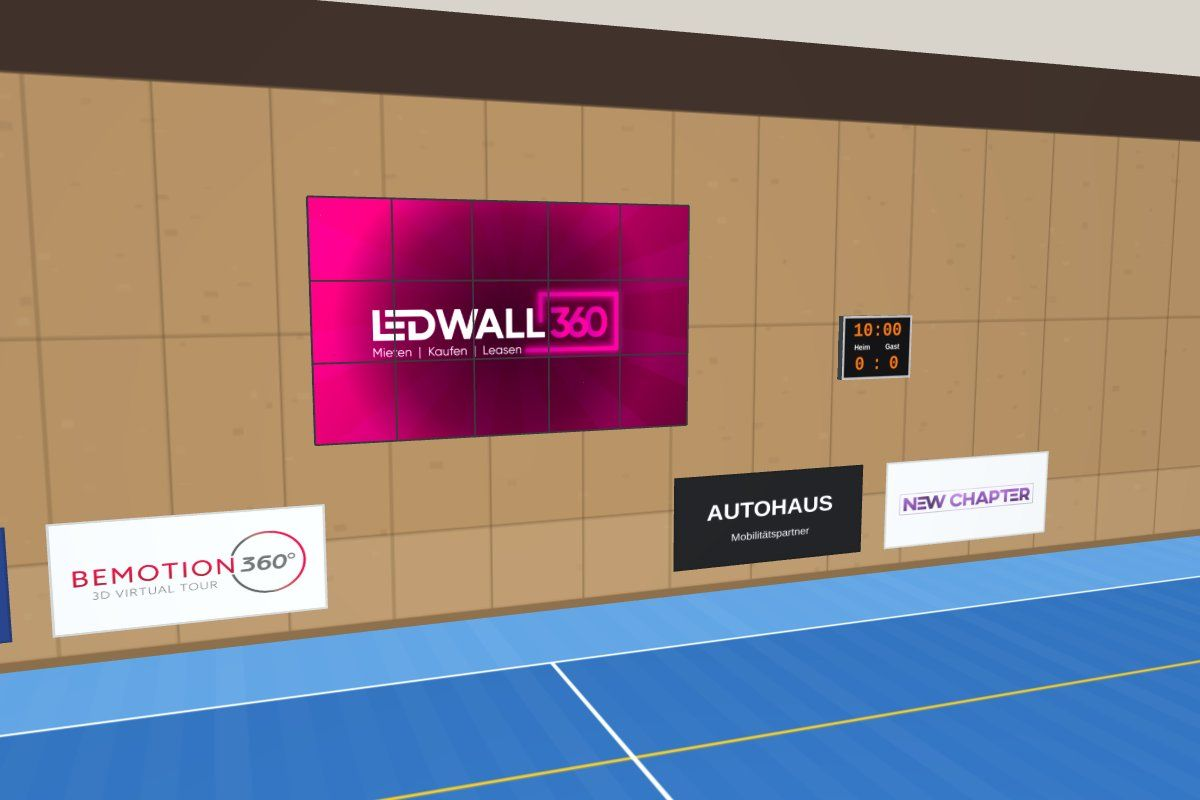
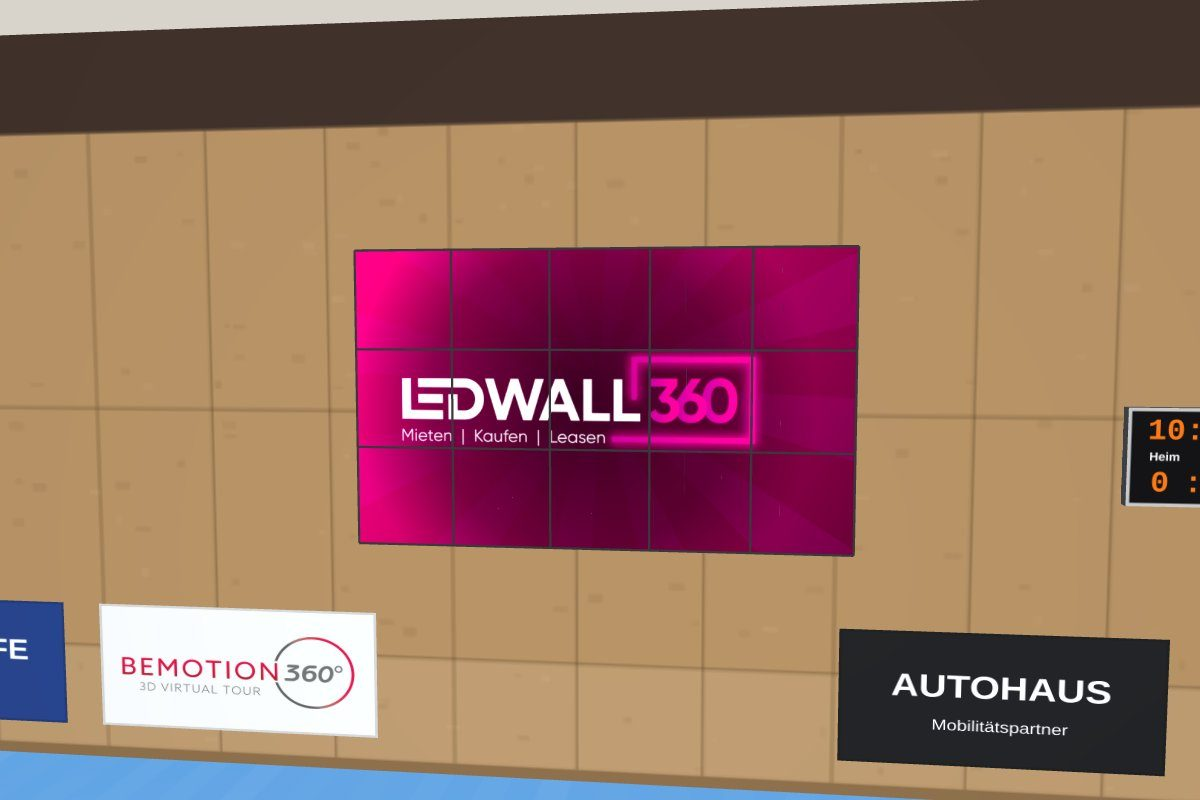
Startseite: neue Kachelbilder (Mobil mit Bodenaufbau, Fest mit LEDWALL mittig)
Claude-Session: https://claude.ai/code/session_01KYGgSmeM7V6V2tfPuBca7V

diff --git a/index.html b/index.html
@@ -61,7 +61,7 @@
   .tile:hover .cta{background:#ff1a94;}
   .tile .img{position:relative;aspect-ratio:2.3/1;background:#ece8f0;}
   .tile .img{overflow:hidden;}
-  .tile .img img{position:absolute;inset:0;display:block;width:100%;height:100%;object-fit:cover;object-position:50% 38%;}
+  .tile .img img{position:absolute;inset:0;display:block;width:100%;height:100%;object-fit:cover;object-position:50% 50%;}
   .tag{position:absolute;left:14px;top:14px;font-size:11px;font-weight:700;letter-spacing:.8px;text-transform:uppercase;color:#fff;background:rgba(18,13,24,.72);backdrop-filter:blur(6px);-webkit-backdrop-filter:blur(6px);border-radius:999px;padding:6px 12px;}
   .tile-body{padding:18px 22px 20px;display:flex;flex-direction:column;gap:12px;flex:1;}
   .tile h2{font-size:22px;font-weight:700;letter-spacing:-.5px;line-height:1.2;margin:0;}
@@ -108,7 +108,7 @@
   <h2 class="section-title">Wofür brauchst du die Wand?</h2>
   <div class="tiles">
     <a class="tile" href="/mobil/">
-      <div class="img"><img src="/assets/tile-mobil.jpg" alt="Mobile LED-Wand hängend an einer Traverse" loading="lazy"><span class="tag">Mobil</span></div>
+      <div class="img"><img src="/assets/tile-mobil.jpg" alt="Mobile LEDWALL auf dem Boden aufgebaut" loading="lazy"><span class="tag">Mobil</span></div>
       <div class="tile-body">
         <h2>Für Events und Bühnen</h2>
         <p>Leichte Panels, schnell auf- und abgebaut.</p>

diff --git a/english/index.html b/english/index.html
@@ -61,7 +61,7 @@
   .tile:hover .cta{background:#ff1a94;}
   .tile .img{position:relative;aspect-ratio:2.3/1;background:#ece8f0;}
   .tile .img{overflow:hidden;}
-  .tile .img img{position:absolute;inset:0;display:block;width:100%;height:100%;object-fit:cover;object-position:50% 38%;}
+  .tile .img img{position:absolute;inset:0;display:block;width:100%;height:100%;object-fit:cover;object-position:50% 50%;}
   .tag{position:absolute;left:14px;top:14px;font-size:11px;font-weight:700;letter-spacing:.8px;text-transform:uppercase;color:#fff;background:rgba(18,13,24,.72);backdrop-filter:blur(6px);-webkit-backdrop-filter:blur(6px);border-radius:999px;padding:6px 12px;}
   .tile-body{padding:18px 22px 20px;display:flex;flex-direction:column;gap:12px;flex:1;}
   .tile h2{font-size:22px;font-weight:700;letter-spacing:-.5px;line-height:1.2;margin:0;}
@@ -108,7 +108,7 @@
   <h2 class="section-title">What do you need the wall for?</h2>
   <div class="tiles">
     <a class="tile" href="/mobile/english/">
-      <div class="img"><img src="/assets/tile-mobil.jpg" alt="Mobile LED wall flown from a truss" loading="lazy"><span class="tag">Mobile</span></div>
+      <div class="img"><img src="/assets/tile-mobil.jpg" alt="Mobile LEDWALL ground stacked" loading="lazy"><span class="tag">Mobile</span></div>
       <div class="tile-body">
         <h2>For events and stages</h2>
         <p>Light panels, quick to set up and take down.</p>
